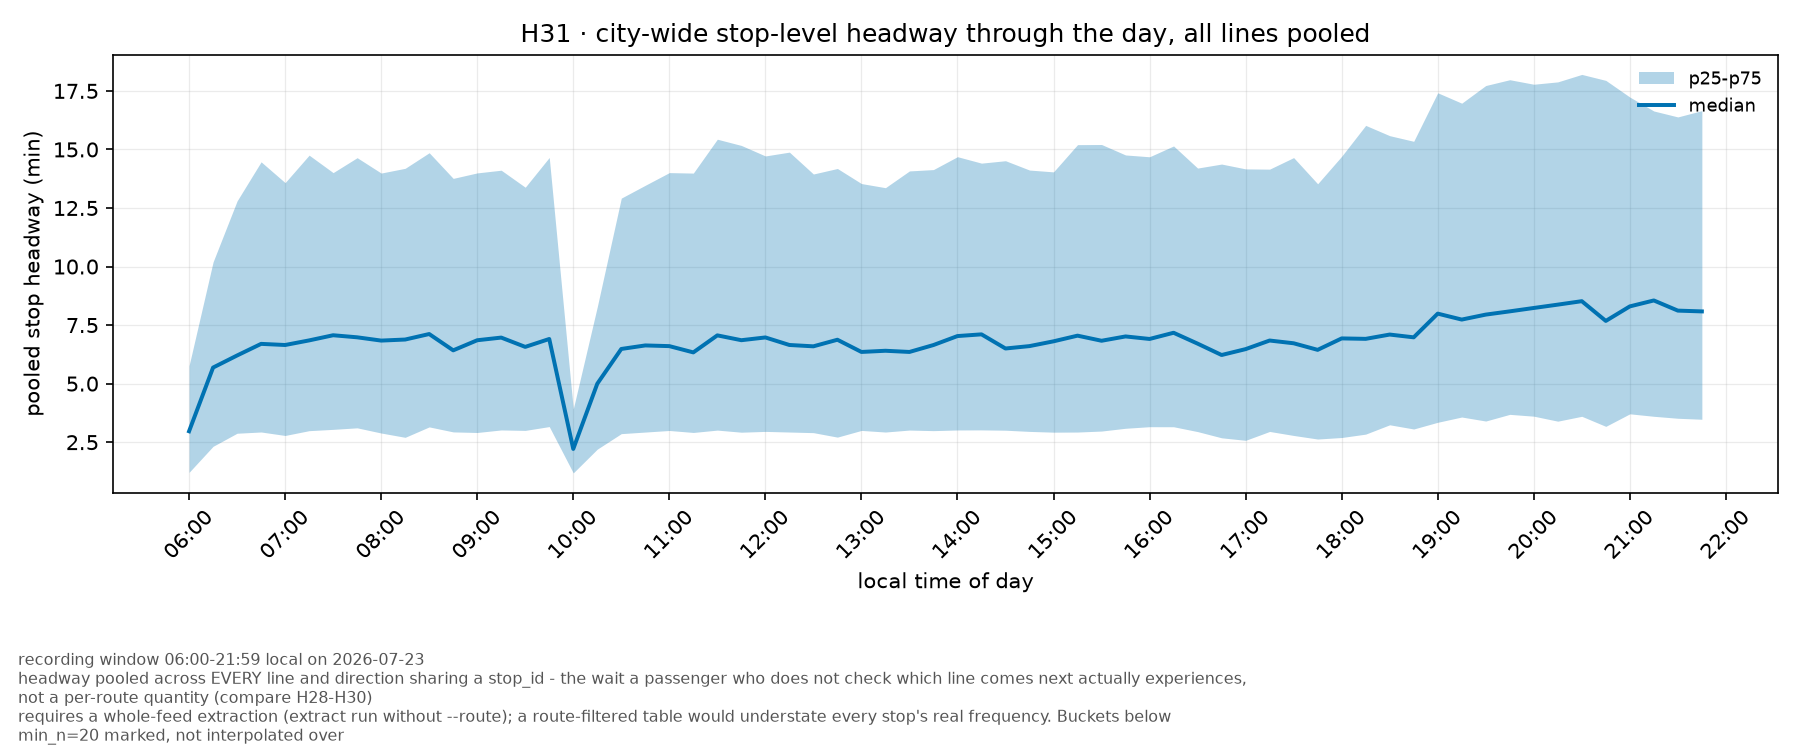
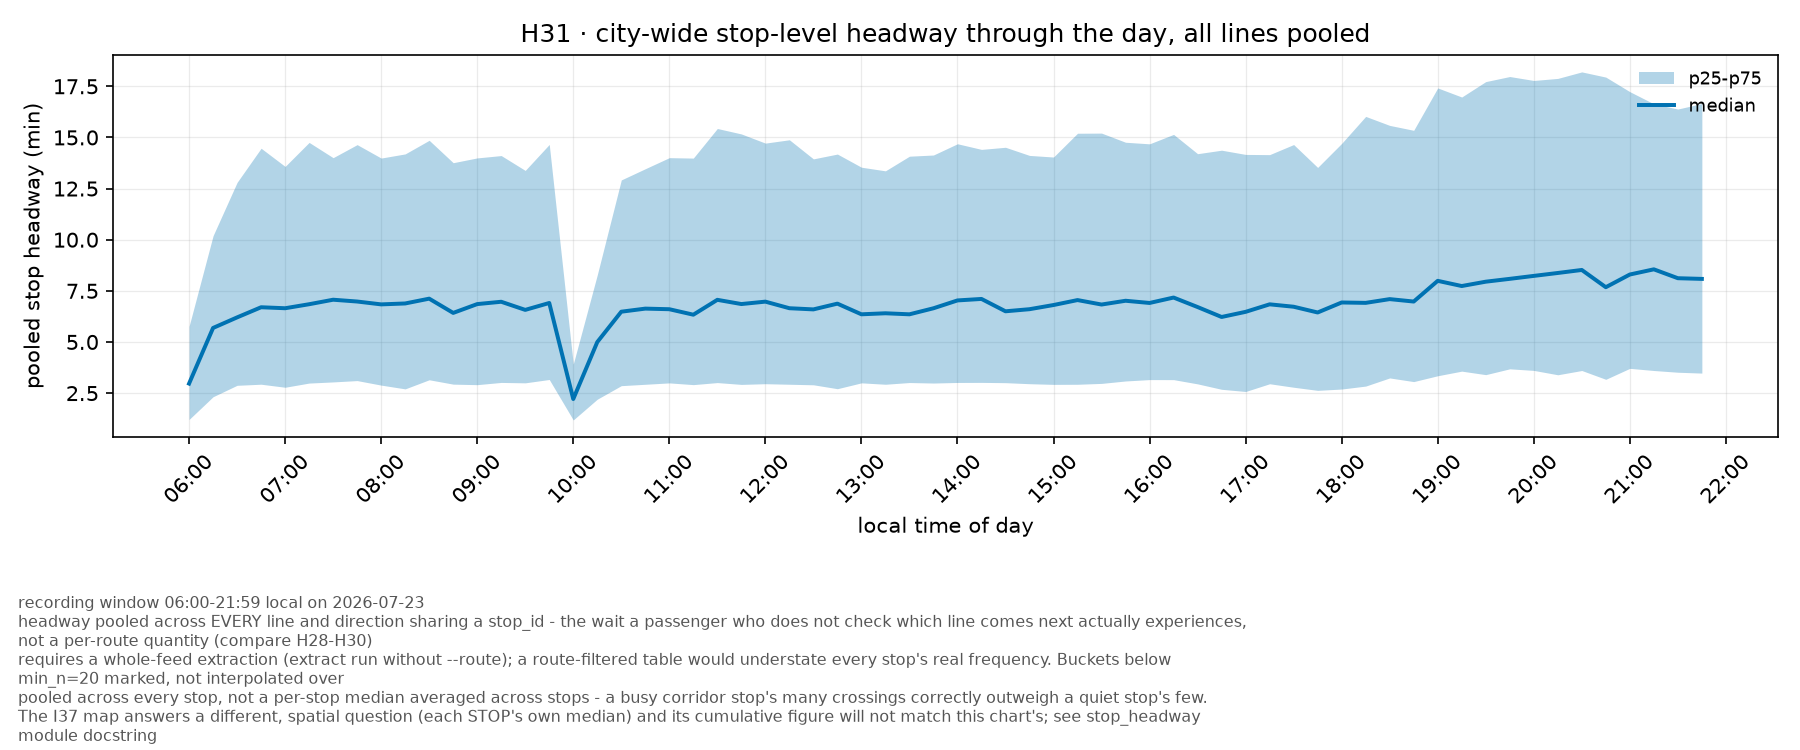
feat(transit_charts): J39 cross-city headway comparison, 4-city map+chart composite
Adds J39 (H31 overlaid across cities, pooled median through the day) reusing
the E20 group-by-city pattern. citywide_hourly pools every observed crossing
city-wide before taking the median - deliberately not a per-stop median
averaged across stops, since that would weight a 1-bus/hour stop the same as
a 20-bus/hour one. This is a different, spatial statistic from I37's own
cumulative per-stop map, and both docstrings/README now say so explicitly so
the two numbers are never expected to match.

Ships the 4-city (Warszawa/Krakow/Lodz/Gdansk, 2026-08-13) map+chart example
built from the QGIS I37 export, and regenerates the lodz_H31 README example.

diff --git a/tools/transit_charts/transit_charts/render/stop_headway.py b/tools/transit_charts/transit_charts/render/stop_headway.py
@@ -1,10 +1,12 @@
 """City-wide fluctuation of stop-level headway - the time axis companion to the per-stop map.
 
 The map (built via QGIS, see docs/handoffs/gtfs-rt-visualisation-catalogue_handoff.md I37)
-shows one cumulative number per hex over the whole 06:00-22:00 window. This shows how that
-same pooled-across-all-lines headway moves hour by hour, city-wide, in one panel - not
-per-route (H28-H30 already cover that) and not per-hex (would be too many small multiples to
-read at once, Michal's call 2026-08-16).
+shows one cumulative number per hex over the whole 06:00-22:00 window - each stop's own median
+headway over the whole day, coloured in place. This shows how the pooled-across-the-whole-city
+headway moves hour by hour instead - a different aggregation on purpose, see
+`stop_headway`'s module docstring for why the two disagree - not per-route (H28-H30 already
+cover that) and not per-hex (would be too many small multiples to read at once, Michal's call
+2026-08-16).
 """
 from __future__ import annotations
 
@@ -64,11 +66,87 @@ def fluctuation(
         f"requires a whole-feed extraction (extract run without --route); a route-filtered "
         f"table would understate every stop's real frequency. Buckets below min_n={min_n} "
         "marked, not interpolated over",
+        "pooled across every stop, not a per-stop median averaged across stops - a busy "
+        "corridor stop's many crossings correctly outweigh a quiet stop's few. The I37 map "
+        "answers a different, spatial question (each STOP's own median) and its cumulative "
+        "figure will not match this chart's; see stop_headway module docstring",
     ]
     style.caption(ax, notes)
     return style.save(
         fig, stats,
         style.chart_params("H31", source, len(frame),
                             {"bucket_minutes": bucket_minutes, "min_n": min_n}, notes),
+        out_prefix,
+    )
+
+
+def citywide_comparison(
+    tables: dict[str, pd.DataFrame],
+    *,
+    out_prefix: Path,
+    sources: list,
+    bucket_minutes: int = 60,
+    min_n: int = 20,
+) -> style.ChartResult:
+    """J39 - H31 overlaid across cities: one line per city, no band.
+
+    Median only, not mean: `tidy.summarise` deliberately never computes a mean (heavy-tailed
+    headways, see its docstring). p25-p75 is dropped, not just kept per-city: N cities' bands
+    would occlude each other on one panel, which H31 (one city, one band) does not have to
+    solve.
+
+    *tables* comes from `crosscity.group_by_city` - one already-concatenated tidy table per
+    city. Outages cannot be reconstructed from an already-extracted table (that requires the
+    raw matched positions `stop-headway` reads directly), so this always pools every gap; a
+    feed with a genuine recording outage would need re-running `stop-headway` for that city.
+    """
+    frames = []
+    for city in sorted(tables):
+        stats = stop_headway.citywide_hourly(
+            tables[city], outages=[], bucket_minutes=bucket_minutes, min_n=min_n,
+        )
+        if stats.empty:
+            continue
+        stats = stats.copy()
+        stats["city"] = city
+        frames.append(stats)
+    if not frames:
+        raise ValueError("no city reached min_n pooled headways in any bucket")
+    combined = pd.concat(frames, ignore_index=True)
+    combined["headway_p50_min"] = style.to_minutes(combined.p50)
+
+    colours = style.colour_for(list(tables))
+    fig, ax = style.new_figure(height=5.5)
+    for city, part in combined.groupby("city", sort=True):
+        part = style.on_full_bucket_grid(part.sort_values("bucket"), "bucket", bucket_minutes)
+        ax.plot(part.bucket, part.headway_p50_min, color=colours[city], linewidth=1.9,
+                 label=city)
+        style.mark_thin_buckets(ax, part.bucket, part.get("below_min_n", pd.Series(dtype=bool)))
+
+    style.time_of_day_axis(ax)
+    ax.set_xlabel("local time of day")
+    ax.set_ylabel("pooled stop headway, median (min)")
+    ax.set_title("J39 · city-wide stop-level headway through the day, compared across cities")
+    ax.legend(loc="upper right", fontsize=8.5, framealpha=0.0, ncols=min(len(tables), 4))
+
+    notes = [
+        f"{len(tables)} cities: {', '.join(sorted(tables))}",
+        "median only, no p25-p75 band - H31 per city; several bands on one panel would occlude "
+        "each other. Pooled across every stop, not per-stop-then-averaged; see H31's caption "
+        "and the stop_headway module docstring for why this disagrees with the I37 map's own "
+        "cumulative figure.",
+        f"buckets below min_n={min_n} marked (grey triangle at the axis floor), not "
+        "interpolated over; each city keeps its own recording window, so a city that starts "
+        "later simply has a shorter line, not a lower value",
+        "outages pooled across every gap - re-run stop-headway per city if a feed had a "
+        "genuine recording outage",
+    ]
+    style.caption(ax, notes)
+    return style.save(
+        fig, combined,
+        style.chart_params(
+            "J39", sources, sum(len(t) for t in tables.values()),
+            {"bucket_minutes": bucket_minutes, "min_n": min_n, "cities": sorted(tables)}, notes,
+        ),
         out_prefix,
     )

diff --git a/tools/transit_charts/transit_charts/stop_headway.py b/tools/transit_charts/transit_charts/stop_headway.py
@@ -13,6 +13,17 @@ street normally have distinct stop_ids), so unlike the per-line headway this nee
 Requires a whole-feed tidy table (`extract` run without `--route`) - a route-filtered table
 would silently pool only the lines that happened to be selected and understate every stop's
 real frequency.
+
+**`per_stop_summary` (the I37 map) and `citywide_hourly` (H31/J39) answer different
+questions, on purpose, and their headline numbers will not match.** The map medians each
+STOP's own headways over the whole day, then colours it in place - "how does this particular
+spot behave". The chart medians every crossing pooled across the WHOLE CITY within an hour -
+"how does a typical wait, anywhere in the city, behave right now". A stop with 1 bus/hour and a
+stop with 20 buses/hour get one hex each on the map, but the busy stop contributes 20x the raw
+observations to the chart - correctly, since that is how often the event actually happens.
+Confirmed against real Lodz data 2026-08-17: whole-day per-stop median-of-medians (map) 17.6
+min vs whole-day pooled-crossing median (chart, unbucketed) 7.0 min - both correct, for what
+each is defined to measure.
 """
 from __future__ import annotations
 
@@ -78,11 +89,18 @@ def citywide_hourly(
     bucket_minutes: int = 60,
     min_n: int = 20,
 ) -> pd.DataFrame:
-    """One row per time-of-day bucket, pooling every stop's pooled headways city-wide.
+    """One row per time-of-day bucket: the median headway across every crossing observed in
+    that bucket, pooled over every stop and every line city-wide.
 
-    The chart's input - fluctuation over the day, not the cumulative per-stop figure the map
-    shows. Bucketed on the LATER vehicle's arrival time (obs_local), same convention as every
-    other time-of-day chart in this tool (`tidy.local_time_bucket`).
+    Picture standing at a stop, timing the gap to the next arrival (any line), then repeating
+    that at every stop in the city - this pools every one of those gaps that lands in the given
+    hour and takes ONE median over the pool. Deliberately NOT a per-stop median computed first
+    and then averaged across stops: that would give a stop with 1 crossing an hour the same vote
+    as one with 100, which is not "the wait a passenger experiences", it's "the wait a stop
+    has" - a different, spatial question that the cumulative, whole-window I37 map answers
+    instead (Michal's call 2026-08-17, confirmed by hand-worked example against real Lodz data:
+    pooled median ~7 min vs per-stop-then-averaged ~16.5 min in the same hour). The two numbers
+    are NOT expected to match and neither is wrong - see the module docstring.
     """
     crossings = _pooled_crossings(frame, outages)
     crossings = crossings.copy()

diff --git a/tools/transit_charts/transit_charts/cli.py b/tools/transit_charts/transit_charts/cli.py
@@ -200,6 +200,7 @@ CHARTS = {
     "H28": ("network-wide headway regularity ranking", False),
     "H29": ("network-wide excess wait ranking (absolute + relative)", False),
     "H30": ("network-wide bunching frequency, route by hour", False),
+    "J39": ("H31 overlaid across cities: median pooled stop headway through the day", False),
 }
 
 # Charts with a sensible interactive form. The rest are heatmaps and ridgelines, where a
@@ -209,7 +210,7 @@ INTERACTIVE = {"C9", "C10", "B6"}
 # Charts for which several days is the intended input, not an accident: D15 separates a
 # persistent offset from run-to-run variability and cannot work on one day; E20 compares
 # cities and pools whatever each contributes.
-MULTI_DAY_BY_DESIGN = {"D15", "E20"}
+MULTI_DAY_BY_DESIGN = {"D15", "E20", "J39"}
 
 # Charts that take a `routes: list[str] | None` selection and so can honour --exclude-route.
 # E20 is multi-route in the CHARTS table (no single --route requirement) but pools whatever
@@ -326,6 +327,7 @@ def _cmd_chart(args: argparse.Namespace) -> int:
     # Imported here, not at module scope: `extract` must stay runnable in an environment with
     # no matplotlib, which is the whole reason the two layers are separate.
     from transit_charts.render import crosscity, headway, punctuality, speed, trajectory
+    from transit_charts.render import stop_headway as render_stop_headway
 
     tables = [extract_mod.read_table(path) for path in args.table]
     table = tables[0] if len(tables) == 1 else pd.concat(tables, ignore_index=True)
@@ -440,6 +442,11 @@ def _cmd_chart(args: argparse.Namespace) -> int:
     elif args.name == "E20":
         result = crosscity.artifact_profile(
             crosscity.group_by_city(tables), out_prefix=args.out_prefix, sources=args.table,
+        )
+    elif args.name == "J39":
+        result = render_stop_headway.citywide_comparison(
+            crosscity.group_by_city(tables), out_prefix=args.out_prefix, sources=args.table,
+            bucket_minutes=args.bucket_minutes or 60, min_n=args.min_n,
         )
     else:  # D15
         result = speed.systematic_vs_stochastic(

diff --git a/tools/transit_charts/tests/test_stop_headway.py b/tools/transit_charts/tests/test_stop_headway.py
@@ -87,3 +87,18 @@ def test_citywide_hourly_buckets_by_the_later_arrival():
     stats = stop_headway.citywide_hourly(frame, outages=[], bucket_minutes=60, min_n=1)
     buckets = dict(zip(stats.bucket, stats.n))
     assert buckets == {600: 1, 660: 1}
+
+
+def test_citywide_hourly_pools_raw_crossings_so_a_busy_stop_outweighs_a_quiet_one():
+    """A busy stop correctly dominates the pooled median - that IS how often the event 'wait at
+    a stop, watch something arrive' happens across the city, which is what this chart measures.
+    The per-stop-then-averaged statistic (equal weight per stop) is a different question,
+    answered instead by the I37 map - see the module docstring for why the two disagree."""
+    rows = [("QUIET", "10", 0, "Q"), ("QUIET", "11", 30, "Q")]  # one 30-min headway
+    for minute in range(0, 30, 2):
+        rows.append(("BUSY", "10", minute, "B"))  # fourteen 2-min headways
+    frame = _frame(rows)
+    stats = stop_headway.citywide_hourly(frame, outages=[], bucket_minutes=60, min_n=1)
+    row = stats.set_index("bucket").loc[600]
+    assert row.n == 15  # every pooled crossing counts, not one vote per stop
+    assert pytest.approx(row.p50) == 120.0  # median of fourteen 120s gaps + one 1800s gap

diff --git a/tools/transit_charts/README.md b/tools/transit_charts/README.md
@@ -9,10 +9,10 @@
 
 Buduje wykresy z katalogu `docs/handoffs/gtfs-rt-visualisation-catalogue_handoff.md` —
 punktualność, regularność, prędkość, oraz (od rozszerzenia „skala miasta") ranking i mapy
-cieplne po całej sieci naraz — z dopasowanych pozycji pojazdów Family A. Siedemnaście gotowych
-wykresów (jedenaście per linia: A2, C9-C11, B5-B7, D14-D17, E20; pięć sieciowych: B8, H28-H31)
-plus jedna mapa (I37, §11a — jedyna pozycja wymagająca QGIS), `F21` świadomie zostawiony na
-później.
+cieplne po całej sieci naraz — z dopasowanych pozycji pojazdów Family A. Osiemnaście gotowych
+wykresów (jedenaście per linia: A2, C9-C11, B5-B7, D14-D17, E20; pięć sieciowych: B8, H28-H31;
+jeden międzymiastowy: J39, §11b) plus jedna mapa (I37, §11a — jedyna pozycja wymagająca QGIS),
+`F21` świadomie zostawiony na później.
 
 Przykłady w tym pliku pochodzą z okna 10:07–21:59, więc nie ma w nich porannego szczytu.
 Komplet z **pełnej doby (06:00–21:59, Łódź 2026-07-23), osobno dla linii 10A, 11, 14, 15, 52,
@@ -446,6 +446,15 @@ Szeroki pas p25–p75 (tu: 2–17 minut) nie jest szumem — to fakt: jedna godz
 przystanki centrum z rzadkimi na peryferiach w jednym rozkładzie. Komenda produkuje przy okazji
 `<out-prefix>_stops.csv` — wejście do mapy I37 niżej.
 
+**Ten wykres i mapa I37 celowo pokazują różne liczby, nawet dla tego samego dnia.** Tu każde
+zaobserwowane zdarzenie (dowolny pojazd na dowolnym przystanku) liczy się raz i wchodzi do
+wspólnej puli miasta — ruchliwy przystanek w centrum wnosi setki obserwacji na godzinę, cichy
+przystanek na peryferiach kilka, **słusznie**, bo tak często to zdarzenie faktycznie się
+zdarza. Mapa I37 liczy medianę **osobno dla każdego przystanku** (każdy przystanek to jeden
+heksagon, jeden głos), więc odpowiada na inne pytanie: „jak wygląda to konkretne miejsce”, nie
+„jak wygląda typowe oczekiwanie gdziekolwiek w mieście”. Obie liczby są poprawne dla tego, co
+mierzą — nie próbuj ich zgadzać (patrz docstring modułu `stop_headway.py`).
+
 ### D14 · prędkość segmentowa, segment × pasmo czasu
 
 ![D14 — mediana prędkości segmentowej, segment × pasmo czasu](assets/examples/lodz_D14.png)
@@ -736,6 +745,33 @@ przystanku w tym miejscu", nie „zerowy headway".
 
 Wymaga `stop_lat`/`stop_lon` z GTFS (`sources.stop_location_index`) — przystanek bez
 współrzędnych albo z `(0, 0)` jest pomijany, nie ląduje na `(0°N, 0°E)`.
+
+## 11b. J39 · H31 porównane między miastami
+
+![J39 wraz z mapą I37 — cztery miasta](assets/examples/J39_I37_four_cities_2026-08-13.png)
+
+```bat
+py -m transit_charts.cli chart J39 --table out\cities\warszawa_2026-08-13.csv.gz --table out\cities\krakow_2026-08-13.csv.gz --table out\cities\lodz_2026-08-13.csv.gz --table out\cities\gdansk_2026-08-13.csv.gz --bucket-minutes 15 --out-prefix out\charts\J39_2026-08-13
+```
+
+To H31 nałożone na siebie: jedna linia na miasto, bez pasa p25–p75 — kilka pasów na jednym
+panelu zasłaniałoby się nawzajem. Kolor spójny z resztą narzędzia (`style.colour_for`, paleta
+Okabe-Ito po posortowanych nazwach miast). Tak jak E20, wejściem jest **cały feed** każdego
+miasta (`chart`, nie `stop-headway`), więc `--table` bierze już wyekstrahowane tabele tidy
+jednego dnia na miasto, a `--min-n` i `--bucket-minutes` działają tak jak w H31.
+
+**Jak to czytać.** Krzywa, która zaczyna się nisko i eksploduje wieczorem (Gdańsk po 20:00)
+traci częstotliwość na koniec dnia bardziej gwałtownie niż widać to na mapie wyżej — jeden
+skumulowany punkt dobowy nie widzi tej asymetrii w czasie.
+
+**To NIE jest ten sam odstęp co skumulowana liczba na mapie I37, i to celowo — patrz też H31
+wyżej.** Tu każde zaobserwowane zdarzenie (dowolny pojazd, dowolny przystanek) liczy się raz i
+wchodzi do wspólnej puli miasta, więc ruchliwy przystanek naturalnie waży więcej niż cichy —
+zgodnie z tym, jak często pasażer faktycznie na niego trafia. Podpis nad mapą to zupełnie inna
+wielkość: mediana licząca każdy PRZYSTANEK raz, niezależnie od jego ruchu, licząca „jak wygląda
+to konkretne miejsce” zamiast „jak wygląda typowe oczekiwanie w mieście”. Nie próbuj zgadzać
+tych dwóch liczb — patrz docstring `stop_headway.py` po dokładne wyjaśnienie i przykład
+liczbowy.
 
 ## 12. Testy
 

diff --git a/tools/transit_charts/README.en.md b/tools/transit_charts/README.en.md
@@ -9,9 +9,10 @@
 
 Builds the charts catalogued in `docs/handoffs/gtfs-rt-visualisation-catalogue_handoff.md` —
 punctuality, regularity, speed, and (since the "city scale" extension) network-wide rankings and
-heatmaps — from Family A's matched vehicle positions. Seventeen charts are built (eleven
-per-route: A2, C9-C11, B5-B7, D14-D17, E20; five network-wide: B8, H28-H31) plus one map (I37,
-§11a — the only entry that needs QGIS); `F21` is deliberately left for later.
+heatmaps — from Family A's matched vehicle positions. Eighteen charts are built (eleven
+per-route: A2, C9-C11, B5-B7, D14-D17, E20; five network-wide: B8, H28-H31; one cross-city:
+J39, §11b) plus one map (I37, §11a — the only entry that needs QGIS); `F21` is deliberately
+left for later.
 
 The examples in this file come from a 10:07–21:59 window, so they contain no morning peak. A
 full set from **a whole day (06:00–21:59, Łódź 2026-07-23), one folder per route for 10A, 11,
@@ -434,6 +435,15 @@ band (here: 2-17 minutes) is not noise - it is the fact that one hour mixes the 
 the centre with the sparse ones on the periphery in a single distribution. The command also
 writes `<out-prefix>_stops.csv` on the side - the input to the I37 map below.
 
+**This chart and the I37 map deliberately show different numbers, even for the same day.** Here
+every observed event (any vehicle, any stop) counts once and goes into one city-wide pool - a
+busy stop contributes hundreds of observations an hour, a quiet one a handful, correctly, since
+that is how often the event actually happens. The I37 map medians each STOP separately (one
+hex, one vote, regardless of traffic), so it answers a different question: "what does this
+particular place look like" rather than "what does a typical wait look like anywhere in the
+city". Both are correct for what they measure - don't expect them to agree (see the
+`stop_headway.py` module docstring for a worked numeric example).
+
 ### D14 · segment speed, segment × time band
 
 ![D14 — median segment speed, segment × time band](assets/examples/lodz_D14.png)
@@ -714,6 +724,33 @@ are the periphery, where a trip needs planning ahead. Hexes with no stop at all 
 
 Needs `stop_lat`/`stop_lon` from GTFS (`sources.stop_location_index`) - a stop with no
 coordinate, or with `(0, 0)`, is left out rather than landing at `(0°N, 0°E)`.
+
+## 11b. J39 · H31 compared across cities
+
+![J39 alongside the I37 map — four cities](assets/examples/J39_I37_four_cities_2026-08-13.png)
+
+```bat
+py -m transit_charts.cli chart J39 --table out\cities\warszawa_2026-08-13.csv.gz --table out\cities\krakow_2026-08-13.csv.gz --table out\cities\lodz_2026-08-13.csv.gz --table out\cities\gdansk_2026-08-13.csv.gz --bucket-minutes 15 --out-prefix out\charts\J39_2026-08-13
+```
+
+H31 overlaid: one line per city, no p25-p75 band - several bands on one panel would occlude
+each other. Colour matches the rest of the tool (`style.colour_for`, the Okabe-Ito palette
+keyed by sorted city name). Like E20, the input is each city's **whole feed** (`chart`, not
+`stop-headway`), so `--table` takes already-extracted tidy tables, one per city-day, and
+`--min-n`/`--bucket-minutes` behave exactly as in H31.
+
+**Reading it.** A curve that starts low and climbs sharply in the evening (Gdańsk after 20:00)
+is losing frequency at the end of the day more abruptly than the map above shows - a single
+cumulative daily number does not see that asymmetry in time.
+
+**This is NOT the same headway as the map's cumulative figure, and that's deliberate - see H31
+above too.** Here every observed event (any vehicle, any stop) counts once and goes into one
+city-wide pool, so a busy stop naturally weighs more than a quiet one - matching how often a
+passenger actually encounters it. The map's caption is a different quantity entirely: a median
+that counts each STOP once regardless of its traffic, answering "what does this particular
+place look like" instead of "what does a typical wait look like in the city". Don't expect the
+two numbers to agree - see the `stop_headway.py` module docstring for the full explanation and
+a worked example.
 
 ## 12. Tests
 

diff --git a/tools/transit_charts/assets/README.md b/tools/transit_charts/assets/README.md
@@ -6,7 +6,10 @@ Rendery użyte w [README](../README.md) oraz pełny zestaw z jednego dnia.
 
 Ilustracje wstawione w katalogu wykresów w README. Łódź 2026-07-21, okno nagrywania
 10:07–21:59 (bez porannego szczytu), linie 11 / 10B / 69A — **poza H31 i I37**, które
-z tego samego powodu co D15 potrzebują pełnej doby i pochodzą z 2026-07-23.
+z tego samego powodu co D15 potrzebują pełnej doby i pochodzą z 2026-07-23, oraz **poza J39**,
+które z definicji jest międzymiastowe (Warszawa/Kraków/Łódź/Gdańsk, 2026-08-13, jedyny dzień
+z pełnym oknem 06:00–22:00 we wszystkich czterech naraz) i jest pokazane razem z mapą I37 tych
+samych czterech miast na jednym obrazku.
 
 ## `full-day-example/` — pełna doba, jeden folder na linię
 

diff --git a/tools/transit_charts/assets/examples/README.md b/tools/transit_charts/assets/examples/README.md
@@ -31,3 +31,5 @@
 ![H31](lodz_H31.png)
 
 ![I37](lodz_I37.png)
+
+![J39 wraz z I37](J39_I37_four_cities_2026-08-13.png)
